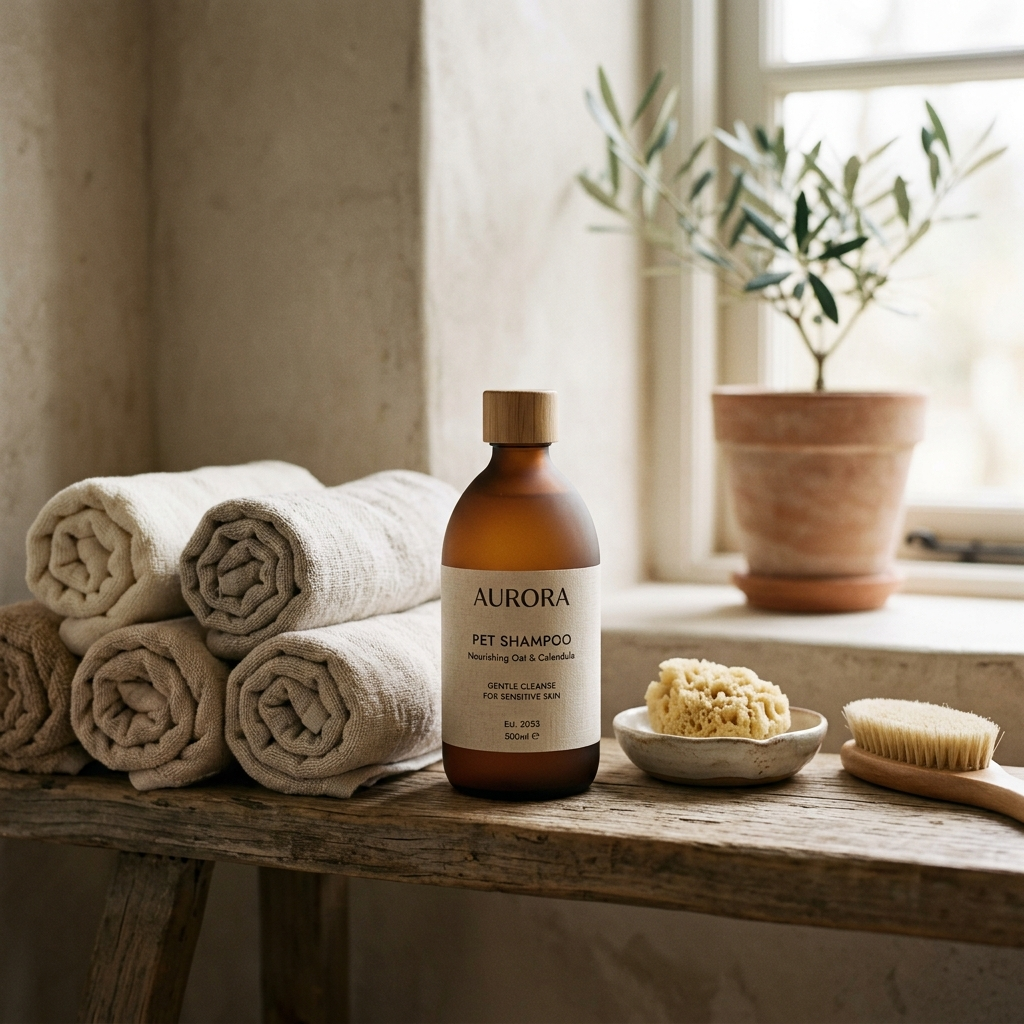
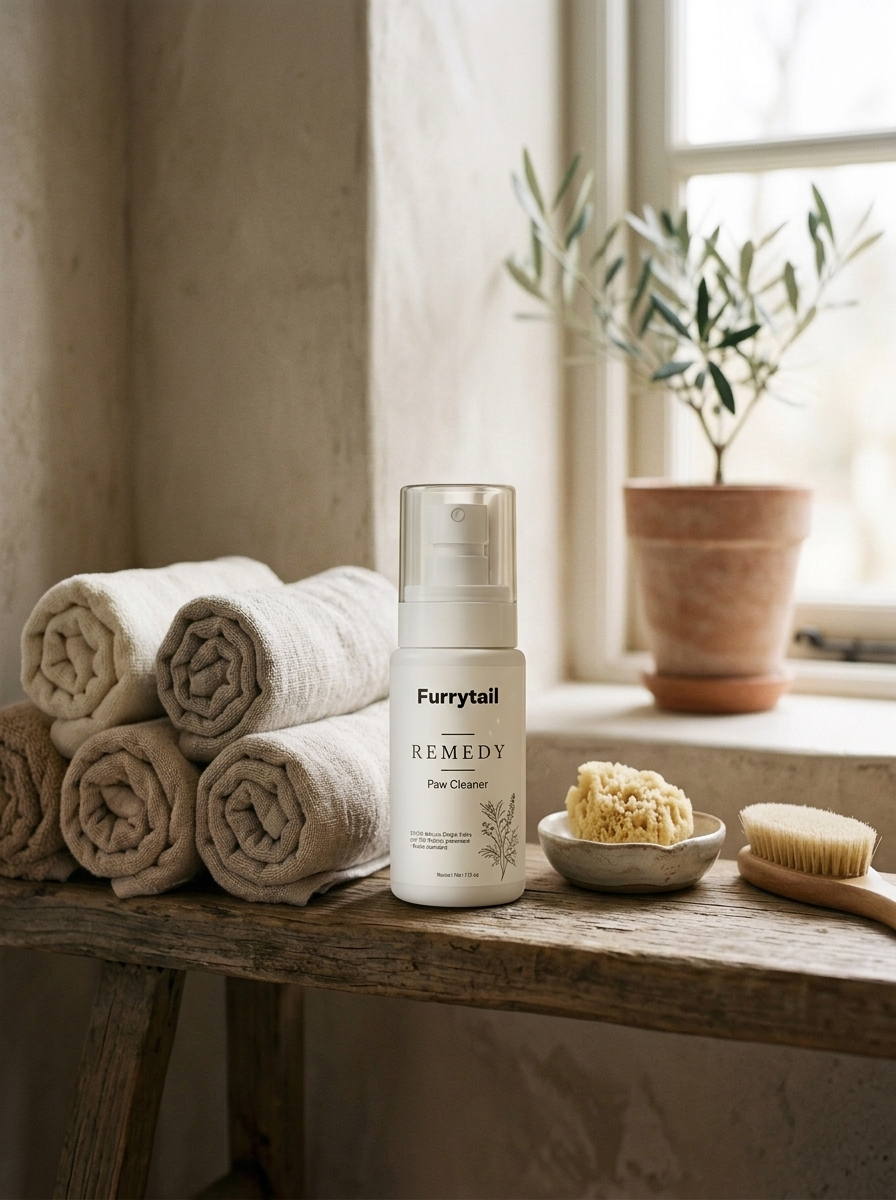
content: remove all sourcing references and replace placeholder products with Furrytail Paw Cleaner

diff --git a/src/app/ingredients/page.tsx b/src/app/ingredients/page.tsx
@@ -102,7 +102,7 @@ export default function IngredientsPage() {
             <div className="max-w-[1200px] mx-auto px-6 md:px-8 flex flex-col md:flex-row md:items-end justify-between gap-8">
               <div>
                 <p className="text-[0.625rem] font-normal tracking-[0.25em] uppercase text-[#8D9A83] mb-3">
-                  How we source
+                  Our Story
                 </p>
                 <h2
                   className="text-[#3B3A38]"
@@ -113,13 +113,13 @@ export default function IngredientsPage() {
               </div>
               <div className="flex flex-col sm:flex-row gap-3">
                 <Link
-                  href="/about#how-we-source"
+                  href="/about"
                   className="inline-flex items-center gap-2 text-[0.625rem] font-normal tracking-[0.14em] uppercase text-[#68735F] hover:text-[#3B3A38] transition-colors duration-[800ms] border border-[#D8CFC4] hover:border-[#8D9A83] px-5 py-3 focus:outline-none focus-visible:ring-1 focus-visible:ring-[#8D9A83]"
-                  data-kite-cta-id="ingredients-sourcing-link"
+                  data-kite-cta-id="ingredients-our-story-link"
                   data-kite-role="secondary"
-                  data-kite-event="sourcing_viewed"
+                  data-kite-event="story_viewed"
                 >
-                  Our sourcing
+                  Our Story
                   <svg width="12" height="12" viewBox="0 0 14 14" fill="none" stroke="currentColor" strokeWidth="1.2" strokeLinecap="round" aria-hidden="true" className="flex-shrink-0">
                     <line x1="1" y1="7" x2="13" y2="7" />
                     <polyline points="8,2 13,7 8,12" />

diff --git a/src/data/home.ts b/src/data/home.ts
@@ -219,7 +219,7 @@ export const brandStory = {
   heading: 'Built for the relationship, not the routine.',
   body: [
     'Most pet care products are made around logistics. Shelf life, margin, packaging cost. The animal is an afterthought to the supply chain.',
-    'It started with a dog that deserved better. Not marketing-better. Actually better. That meant fewer products, better sourced, made by someone who lives with animals rather than just selling to them.',
+    'It started with a dog that deserved better. Not marketing-better. Actually better. That meant fewer products, better crafted, made by someone who lives with animals rather than just selling to them.',
   ],
   image: {
     src: 'https://static.kite.ai/image/upload/v1785338589/app/eaccac4c-a287-4e55-89be-8007fdbfaef1/iter4/about-brand-story.png',
@@ -642,7 +642,7 @@ export const ingredientChapters = [
         benefits: [
           'Warm base note that lingers gently after grooming',
           'Calms senses without masking natural scents',
-          'Sourced responsibly and formulated with restraint',
+          'Crafted responsibly and formulated with restraint',
         ],
         product: 'Gentle Daily Shampoo',
         productId: 'gentle-daily-shampoo',
@@ -783,8 +783,8 @@ export const ingredientStories = {
   eyebrow: 'What goes in',
   heading: 'Nature behind every formula.',
   body: 'Every ingredient earns its place. Nothing added for fragrance alone, nothing left in because it was easier to keep.',
-  cta: 'How we source',
-  ctaHref: '/about#how-we-source',
+  cta: 'Our Story',
+  ctaHref: '/about',
   stories: ingredientChapters.flatMap((ch) => ch.stories),
 };
 

diff --git a/src/components/IngredientAccordion.tsx b/src/components/IngredientAccordion.tsx
@@ -4,7 +4,7 @@ import { useState, useEffect, useRef, useCallback } from 'react';
 
 const ITEMS = [
   { id: 'botanical-actives',      label: 'Botanical actives',      note: 'Plant-derived, selected for function not marketing appeal.' },
-  { id: 'carrier-oils',           label: 'Carrier oils',            note: 'Cold-pressed where possible, from verified sources.' },
+  { id: 'carrier-oils',           label: 'Carrier oils',            note: 'Cold-pressed where possible, from verified origins.' },
   { id: 'no-synthetic-fragrance', label: 'No synthetic fragrance',  note: 'Scent comes from the ingredients, not added perfume.' },
   { id: 'no-artificial-colour',   label: 'No artificial colour',    note: 'Natural tone only. If a product looks pale, that is correct.' },
 ] as const;
